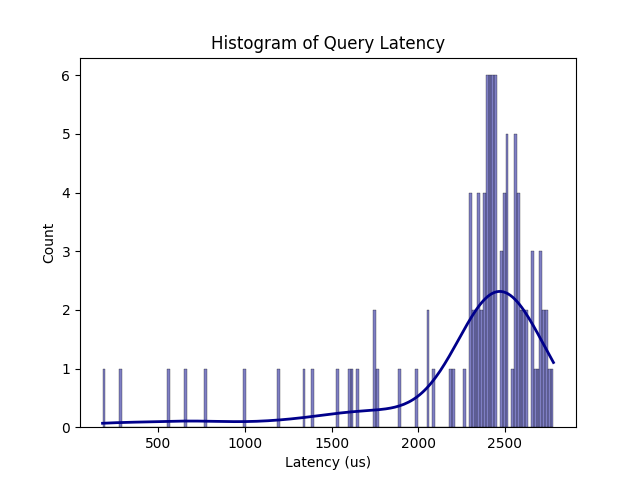
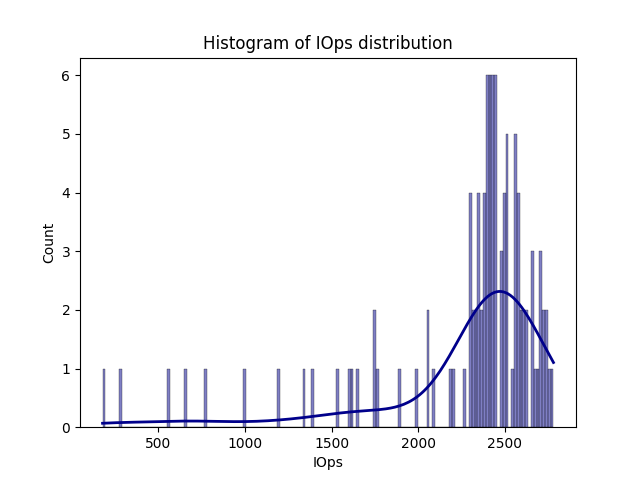
move results to readme

Changed region(s): [[0.3125, 0.0625, 0.7188, 0.125], [0.4375, 0.9375, 0.5938, 1.0]]

diff --git a/results/local-path/plot_iops.py b/results/local-path/plot_iops.py
@@ -18,8 +18,8 @@ sns.histplot(val2, kde=True,
              line_kws={'linewidth':'2'})
 
 # Add labels
-plt.title('Histogram of Query Latency')
+plt.title('Histogram of IOps distribution')
 plt.ylabel('Count')
-plt.xlabel('Latency (us)')
+plt.xlabel('IOps')
 
 plt.savefig('iops_unequal0.png')

diff --git a/README.md b/README.md
@@ -102,7 +102,6 @@ Important: when using the local-volume-provisioner, there are no block devices c
 #### Measuring time from enter_preadv to exit_preadv:
 
 
-
 #### Analysis
 * time from clone() to wait4() is not IO latency but just process runtime (one might consider that query latency).
 * time to complete preadv() operations as seen in the strace for the child process that postgres spawns (child process runs the queries) would be IO latency
@@ -150,8 +149,12 @@ Monitoring pgbench for I/O latency...
 [4M, 8M)               1 |                                                    |
 ´´´
 
+TODO ad  histogram
+
 Per query total (accumulated) IO latency was 4836ms. The queries had run times of avg. 16 seconds (see pgbench output).
 That means per query, 4836ms were spent in IO block operations, whereas the rest of the query runtime was spent elsewhere. This could include waiting and scheduling times (CPU as well), time to receive data from the cache, ...
+
+This might mean that the application is not IO-bound. I took a look into htop and saw that while the select statements are executed, postgres constantly shows a CPU usage of >95% -> the application is probably CPU-bound instead.
 
 In general IO latency was around 900ns on average.
 
@@ -174,7 +177,64 @@ initial connection time = 7.142 ms
 tps = 0.062698 (without initial connection time)
 ```
 
- 
+Measuring time it takes to complete preadv() operations (strace of the postgres process running the queries yielded, that this syscall was used):
+```console
+@hist:
+[1]                   27 |                                                    |
+[2, 4)               421 |                                                    |
+[4, 8)               684 |                                                    |
+[8, 16)            87581 |@@@@@@@@@@@@@@@@@@@@@@@@@@@@@@@@@@@@@               |
+[16, 32)          120006 |@@@@@@@@@@@@@@@@@@@@@@@@@@@@@@@@@@@@@@@@@@@@@@@@@@@@|
+[32, 64)            6083 |@@                                                  |
+[64, 128)          19000 |@@@@@@@@                                            |
+[128, 256)         13893 |@@@@@@                                              |
+[256, 512)          2537 |@                                                   |
+[512, 1K)            639 |                                                    |
+[1K, 2K)             559 |                                                    |
+[2K, 4K)              66 |                                                    |
+[4K, 8K)              14 |                                                    |
+[8K, 16K)             10 |                                                    |
+```
+
+No clear Bi-Modal distribution, supposedly 1-32us is reading data from cache and 64-512us are slower operations reading data from the disk.
+
+Postgres 16: measuring time to complete pread64() syscalls:
+
+```console
+@io_latency[3427879]: 997574
+@io_latency[3425873]: 1013732
+@io_latency[3426775]: 1104702
+@io_latency[3428305]: 1117097
+@io_latency[3426293]: 1136607
+@io_latency[3425221]: 1158294
+@io_latency[3427377]: 1178957
+@io_latency[3424745]: 1195139
+@io_latency[3428845]: 1209701
+@io_latency[3424223]: 1470620
+
+@us:
+[0]                  180 |                                                    |
+[1]              3273009 |@@@@@@@@@@@@@@@@@@@@@@@@@@@@@@@@@@@@@@@@@@@@@@@@@@@@|
+[2, 4)            732028 |@@@@@@@@@@@                                         |
+[4, 8)             40709 |                                                    |
+[8, 16)            10482 |                                                    |
+[16, 32)            1380 |                                                    |
+[32, 64)             985 |                                                    |
+[64, 128)          23941 |                                                    |
+[128, 256)         16977 |                                                    |
+[256, 512)          1004 |                                                    |
+[512, 1K)            328 |                                                    |
+[1K, 2K)             120 |                                                    |
+[2K, 4K)              22 |                                                    |
+[4K, 8K)               8 |                                                    |
+[8K, 16K)              4 |                                                    |
+[16K, 32K)             0 |                                                    |
+[32K, 64K)             1 |                                                    |
+```
+
+Per query (process), around 1100ms of the query time are spent in pread64() operations. Whereas around 4800ms are spent in block IO operations -> probably Asynchronous IO is happening. preadv() may not always block for the full duration that disk I/O takes to complete.
+
+
 ### IOps
 
 As a second metric I looked at IOps. To measure them for the postgres processes I counted read and write syscalls:
@@ -205,26 +265,8 @@ Parent 'postgres' IOPS: 275
 Parent 'postgres' IOPS: 222
 ```
 
-Measuring time it takes to complete preadv() operations (strace of the postgres process running the queries yielded, that this syscall was used):
-```console
-@hist:
-[1]                   27 |                                                    |
-[2, 4)               421 |                                                    |
-[4, 8)               684 |                                                    |
-[8, 16)            87581 |@@@@@@@@@@@@@@@@@@@@@@@@@@@@@@@@@@@@@               |
-[16, 32)          120006 |@@@@@@@@@@@@@@@@@@@@@@@@@@@@@@@@@@@@@@@@@@@@@@@@@@@@|
-[32, 64)            6083 |@@                                                  |
-[64, 128)          19000 |@@@@@@@@                                            |
-[128, 256)         13893 |@@@@@@                                              |
-[256, 512)          2537 |@                                                   |
-[512, 1K)            639 |                                                    |
-[1K, 2K)             559 |                                                    |
-[2K, 4K)              66 |                                                    |
-[4K, 8K)              14 |                                                    |
-[8K, 16K)             10 |                                                    |
-```
+Plotting data as a histogram: ![Histogram of IOps distribution](results/local-path/iops_unequal0.png)
 
-No clear Bi-Modal distribution, supposedly 1-32us is reading data from cache and 64-512us are slower operations reading data from the disk.
 # Done:
 * measured block io latency for local-path provider using postgres queries.
 * found out how much of the query time is spent on IO.
@@ -232,15 +274,15 @@ No clear Bi-Modal distribution, supposedly 1-32us is reading data from cache and
 * measured iops when running the postgres queries.
 
 # TODO:
-* measuring time in preadv would actually make sense I think
+* measuring time in preadv would actually make sense I think ✅
 * measure io lat for longhorn
 * measure iops for longhorn
 * measure query time for longhorn
 * measure how much of the query time is spent on IO there.
 * analyze differences. why are io lat or iops lower in longhorn?
-* switch off cache and analyze changes in io latency?
+* switch off cache; debug_io_direct and analyze changes in io latency? (1) ✅
 
 # Errors:
 * measuring time between read and close does not make sense; these are unrelated
 * measuring the time between clone and wait4 measures the process runtime, not any other latency (process runtime includes e.g. io latency of course).
-* when the db is too small, all the lines can be cached and read from cache -> when looking at IOpa using iostat, none are recorded.
+* when the db is too small, all the lines can be cached and read from cache -> when looking at IOps using iostat, none are recorded.
